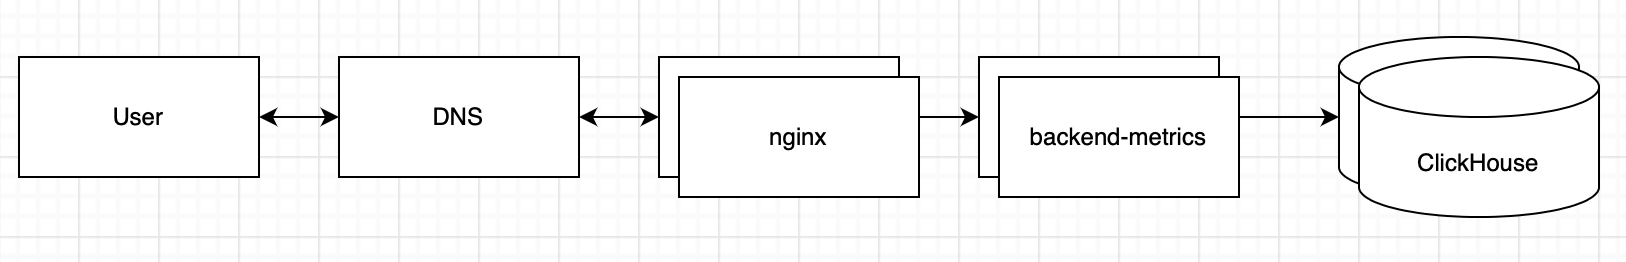
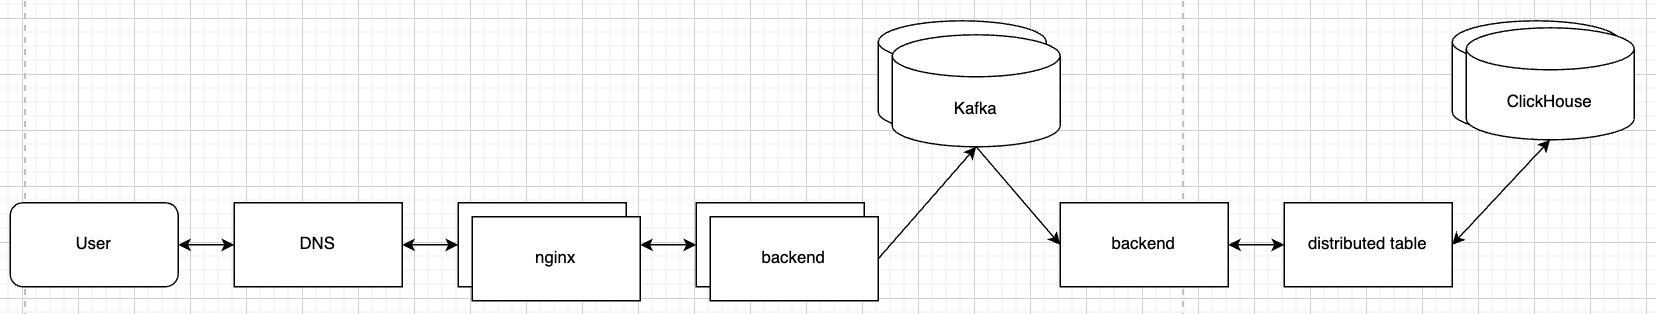
update README

diff --git a/README.md b/README.md
@@ -4,7 +4,11 @@
 
 ### MVP
 
-1. Сбок метрик сайта (сырые метрики без отчетов)
+1. Регистрация администратора
+2. Авторизация администратора
+3. Регистрация сайта
+4. Сбок метрик сайта (сырые метрики без отчетов)
+5. Просмотр метрик сайта
 
 ### Целевая аудитория
 
@@ -17,11 +21,35 @@
 ### Продуктовые метрики
 
 1. **Количество сайтов** - 120 млн
-2. **Средний размер хранилища пользователя** - за пользователя будем считать владельца сайта. Метриками сайта - будем считать информацию о клиентах и их посещений. Для удобства метрики клиента будем считать в хитах.
 
-    * Профиль и информация о сайте имеют очень малый размер, ими можно принебречь.
+2. **Термины**
 
-3. **Средний размер хранилища клиента**
+    * Администратор - владелец сайта
+    * Клиент - пользователь сайта
+    * Метрики - информация о клиентах и их посещениях. Метрики клиента будет считать в хитах
+
+3. **Средний размер хранилища администратора**
+    * Профиль
+
+    | Данные           | Размер |
+    | ---------------- | ------ |
+    | ID               | 5 Б    |
+    | Name             | 5 Б    |
+    | Login            | 5 Б    |
+    | Password         | 5 Б    |
+    | **Общий размер** | 20 Б   |
+
+    * Информация о сайте
+
+    | Данные           | Размер |
+    | ---------------- | ------ |
+    | ID               | 5 Б    |
+    | Name             | 5 Б    |
+    | Domen            | 5 Б    |
+    | CounterNumber    | 5 Б    |
+    | **Общий размер** | 20 Б   |
+
+4. **Средний размер хранилища клиента**
     * Информация о клиенте
 
     | Общие данные               | Размер |
@@ -63,34 +91,50 @@
 
     Это не все метрики, которые приходят. Я выделил основные, болше данных можно посмотреть [тут](https://play.clickhouse.com). В среднем клиент на сайте совершает 1,5 хита в день. Подсчитаем нагрузку сайта за день.
 
-    **Размер метрик за одни день**
+    * Размер метрик за одни день
 
     | Размер хита | Количество пользователей | Количество хитов | Общее хитов | Общий размер |
     | ----------- | ------------------------ | ---------------- | ----------- | ------------ |
     | 200 Б       | 50                       | 1,5              | 75          | 15 КБ        |
 
-4. **Среднее количество действий пользователя**
-    * Информация о действиях пользователя настолько мала, что мы можем ей принебречь (Авторизация, Регистрация, Регистрация сайта, Просмотр метрик).
+5. **Среднее количество действий администратора**
+    * Авторизация - если у сайта тоит кука на 1 день, то среднее количество запросов 1 в день.
+    * Регистрация - администратор регистрируется 1 раз на сайте, поэтому получаем в среднем 0 запросов в день.
+    * Регистрация сайта - администратор регистрирует сайт 1 раз, поэтому получаем в среднем 0 запросов в день.
+    * Просмотр метрик - владельцы маленьких сайтов реже просмотривают метрики, владельцы крупных сайтов постоянно сидят и мониторят ситуацию. Будем считатЬ, что происходит где-то 5 запросов в день (к примеру, запросом будет информация "Тип устройств", "Возвраст"). При просмотре работы Яндекс Метрики средний размер метрики составлял 1 КБ.
 
-5. **Среднее количество действий клиента**
+    | Действие          | Количество |
+    | ----------------- | ---------- |
+    | Авторизация       | 1          |
+    | Регистрация       | 0          |
+    | Регистрация сайта | 0          |
+    | Просмотр метрик   | 5          |
+
+6. **Среднее количество действий клиента**
     * Под действиями клиента понимаем заход на сайт, нажатие на кнопки, переход между страницами и тд. Все это метрики сайта. Для удобства действия клиентов будем считать в хитам не конкретизируя их. В среднем клиент совершает 1,5 хита в день. Cреднее количество клиентов 50, получаем 75 хитов в день.
 
 ### Технические метрики
 
 1. **Размер хранения в разбивке по типам данных**
-    * Информация о клиентах - мы посчитали, что информация о клиенте занимает 50Б. Среднее количество клиентов в день на сайте 200, будем считать что за все время количество уникальных пользователей было в 5 раз больше, тогда нам нужно `120 млн * 1000 * 50Б = 6 ТБ`
-    * Метрики сайта - у нас 120 млн сайтов, Яндекс Метрика существует с 2009 года, то есть 12 лет. Так как раньше сайтов было меньше, то будем считать среднее количество сайтов за 12 лет 30 млн, тогда нам нужно `30 млн * 12 * 365 * 75 * 15 КБ = 150 ПБ`
+    * Профиль - мы посчитали, что профиль занимает 20 Б, у нас 120 млн сайтов, возьмем что у одного сайта в среднем один администратор, получаем `120 млн * 20 Б = 2 ГБ`
+    * Информация о сайте - мы посчитали, что информация о сайте занимает 20 Б, у нас 120 ммлн сайтов, получаем `120 млн * 20 Б = 2 ГБ`
+    * Информация о клиентах - мы посчитали, что информация о клиенте занимает 50Б. Среднее количество клиентов в день на сайте 200, будем считать что за все время количество уникальных пользователей было в 5 раз больше, тогда нам нужно `120 млн * 1000 * 50Б = 6 ТБ`.
+    * Метрики сайта - у нас 120 млн сайтов, Яндекс Метрика существует с 2009 года, то есть 12 лет. Так как раньше сайтов было меньше, то будем считать среднее количество сайтов за 12 лет 30 млн, тогда нам нужно `30 млн * 12 * 365 * 75 * 15 КБ = 150 ПБ`.
 
     В ClickHouse используется сжатие данных для эффективного хранения данных. Для того, чтобы понять какое будет сжатие я загрузил [тестовый набор данных](https://clickhouse.com/docs/ru/getting-started/example-datasets/metrica/) Яндекс метрики размеров 8 ГБ. После загрузки в ClickHouse и оптимизаций таблица весила 520 МБ. Получается размер сжатия примерно 15 раз.
 
     * Сжатая информация о клиентах - `0,4 ТБ`
     * Сжатая метрика сайта - `10 ПБ`
 
-2. RPS и трафик в секунду
+2. **RPS и трафик в секунду**
 
-    | Количество хитов в день | Размер хита | RPS    | Трафик   |
-    | ----------------------- | ----------- | ------ | -------- |
-    | 75                      | 200 Б       | 100000 | 20 МБ/C  |
+    * Хиты - у нас на 1 сайте 75 хитов в день, каждый хит весит 200 Б, получается `RPS = 75 * 120 млн / 24 * 60 * 60 = 100 000 хитов`, `Трафик = RPS * 200 Б / 1024 * 1024 = 20 МБ/C`.
+    * Просмотр метрик - у нас на 1 сайте 5 просмотров в день, каждая метрика весит 1 КБ, получается `RPS = 5 * 120 млн / 24 * 60 * 60 = 7 000`, `Трафик = RPS * 1 КБ / 1024 = 7 МБ/C`.
+
+    | Действие        | Количество | Размер  | RPS     | Трафик  |
+    | --------------- | ---------- | ------- | ------- | ------- |
+    | Хиты            | 75         | 200 Б   | 100 000 | 20 МБ/C |
+    | Просмотр метрик | 5          | 1 КБ    | 7 000   | 7 МБ/C  |
 
 ## 3. Логическая схема
 
@@ -106,41 +150,70 @@
 
 ## 4. Физическая схема
 
-Так как таблицы User, Website, UserWebsite не будут иметь небольшую нагрузку и будут обновляться достаточно редко, то будем их хранить в PostgreSQL.
-
-Таблица Hit, Client будут обновляться достаточно часто и в них будет храниться много данных, для них используем ClickHouse. Для взаимодействия ClickHouse и PostgreSQL будем использовать [внешние словари](https://clickhouse.com/docs/ru/sql-reference/dictionaries/external-dictionaries/external-dicts-dict-sources/#dicts-external_dicts_dict_sources-postgresql)
-
-У нас таблица Hit будет очень большой, поэтому будем ее шардировать между серверами. Плюс ClickHouse в том, что он из коробки позволяет шардировать таблицы и объединять сервера в [кластер](https://clickhouse.com/docs/ru/getting-started/tutorial/#cluster-deployment), и работать с кластером через [distributed table](https://clickhouse.com/docs/ru/engines/table-engines/special/distributed/). Distributed table - это прослойка, которая знает обо всех шардах и репликах и умеет общаяться с ними. Для этого ClickHouse использует решение [ZooKeeper](https://zookeeper.apache.org). Ключом шардирования сделаем домен сайта, чтобы все данные по сайту попытаться хранить в одном месте. Если нам не будет хватать скорости, то мы сможем увеличить количество сервером для distributed table и скорость возрастет. Подробная информация и метрики приведены [тут](https://habr.com/ru/post/509540/). Для обеспечения отказоустойчивости для каждого шарда будет своя реплика. Таким образом мы будем иметь копию данных каждого шарда. Статья про шардирование в [ClickHouse](https://habr.com/ru/company/smi2/blog/317682/).
-
-Разделим нашу логическую схему на следующие базы:
-
 * PostgreSQL
 
 ![PostgreSQL](./assets/postgresql.png)
+
+Так как таблицы User, Website, UserWebsite буду иметь небольшую нагрузку (Регистрация, Регистрация сайта происходят достаточно редко) и будут обновляться достаточно редко, то мы будем их хранить в PostgreSQL. Для обеспечения надежности создадим кластер PostgreSQL с репликами. Для этого будем использовать решение [Patroni](https://habr.com/ru/post/322036/). Этот сервис будет заниматься поддержкой работы кластера PostgreSQL. Для хранения информации о состоянии кластера в Patroni будем использовать ZooKeeper.
+
+* Redis
+
+![Redis](./assets/redis.png)
+
+Нам нужна база данных, где мы будем хранить сессию администратора. Нам нужна In Memory база данных, для того, чтобы быстро получать сессию администратора, для этого будем использовать Redis. Для обеспечения надежности создадим класте Redis с репликами. Для этого будем использовать решение [Redis Cluster](https://habr.com/ru/post/320902/). Он поддерживает аварийное переключение на нового мастера, если сервер с основным мастером выйдет из строя.
 
 * ClickHouse
 
 ![ClickHouse](./assets/clickhouse.png)
 
+Таблица Hit, Client будут обновляться достаточно часто и в них будет храниться много данных, для них используем ClickHouse.
+
+У нас таблица Hit будет очень большой, поэтому будем ее шардировать между серверами. Шардировать будем по UserID, чтобы данные об одном пользователе хранились на одном шарде. Внутри шарда будет партиционировать данные по дате, чтобы свежие данные лежали рядом.
+
+ClickHouse из коробки позволяет шардировать и реплицировать таблицы. В ClickHouse шарды и реплики объединяются в [кластер](https://clickhouse.com/docs/ru/getting-started/tutorial/#cluster-deployment). Для того, чтобы объединить сервера в кластер ClickHouse использует решение [ZooKeeper](https://zookeeper.apache.org). Для надежности будем иметь 1 реплику на каждый шард.
+
+Для удобной работы с кластером будем использовать [distributed table](https://clickhouse.com/docs/ru/engines/table-engines/special/distributed). Distributed table - это прослойка, которая знает обо всех шардах и репликах и умеет общаяться с ними.
+
+Так как таблица Hit очень большая, то работать с таблицей Client через Join или внешние словари не получится, поэтому перед тем как вставить данные в таблицу Hit будем их обогащать данными из таблицы Client. Когда мы будем выполнять запросы за получением метрик, то у больших сайтов может быть очень много данных и запрос будет выполняться медленно, поэтому мы можем использовать механизм кликхаус [семплирование](https://clickhouse.com/docs/ru/sql-reference/statements/select/sample/). Запрос будет выполнен не по всем данным, а по части. Таким образом мы в разы ускорим выполнение запроса.
+
+Если нам не будет хватать скорости получения метрик админом, то мы сможем увеличить количество сервером в кластере и скорость возрастет. Подробная информация и метрики приведены [в этой статье](https://habr.com/ru/post/509540/). Для обеспечения отказоустойчивости для каждого шарда будет своя реплика. Таким образом мы будем иметь копию данных каждого шарда.
+
 ## 5. Технологии
 
-### Frontend
+### Метрика
+
+* Frontend
 
 Как такового фронтенда метрик у нас не будет. Любой сайт, на котором установлены метрики будет нашим фронтендом метрки. Туда просто добавляется наш JS скрипт, который будет собирать данные и отправлять на бекенд.
 
-### Backend
+* Backend
 
-Бекенд митрик должен получать данные и передавать distributed table, который дальше уже будет распределять данные между шардами. Он может выполнять минимальные преобразования по данным.
+Основная задача бекенда метрик - это полученные данные отправить в distributed table, который дальше уже будет распределять данные между шардами. Основным языком будем использовать Golang, так как он поддерживает многопоточность из коробки, является достаточно быстрым.
+
+### Админка
+
+* Frontend
+
+Для написания админки будем использовать HTML + CSS + TS. TypeScript будем использовать потому что он статически типизируемый и обладает дополнительными возможностями по сравнению с JS. Выбор фреймворка зависит от команды разработки и от того, с чем они лучше всего знакомы. Для примера можно взять один из самых популярных фреймворков React. Он поддерживает webpack из коробки и его знает достаточно много программистов.
+
+Для раздачи фронтенда будем использовать CDN, для уменьшения задержки. К примеру можно взять [Cloudflare CDN](https://www.cloudflare.com). В качестве DNS можно выбрать высокодоступный DNS сервис [Amazon Route 53](https://aws.amazon.com/ru/route53).
+
+* Backend
+
+В админке бекенд будет выполнять сразу несколько действий: регистрация, авторизация администратора, регистрация сайта, просмотр метрик. Основным языком так же как и в бекенде метрик будем использовать Golang. Для взаимодействия между микросервисами будем использовать gRPC.
+
+Для того, мониторить информацию о микросервисах и подключать новые в случае отказа основных будем использовать сервис [Consul](https://www.consul.io). В нем будет храниться информация обо всех поднятых микросервисах и бекенды будут ходить туда для получения списка доступных серверов.
 
 ### Трейсинг/Логгинг/Мониторинг
 
 #### Трейсинг
 
-* Для того, чтобы отслеживать где у нас упал запрос при похоже между бекендами будем использовать Jagger.
+* Для того, чтобы отслеживать где у нас упал запрос при походе между бекендами будем использовать Jagger.
 
 #### Логгинг
 
-* Для логгирования бекенда будем использовать Graylog.
+* Для логирования бекенда будем использовать Graylog.
+* Для логирования ошибок фронтенда будем использовать Sentry.
 
 #### Мониторинг
 
@@ -148,24 +221,52 @@
 
 ### Балансировка
 
-* Для балансировки между ДЦ будем использовать Geo-DNS балансировку, которая позволит нам обеспечить наименьшую задержку для пользователя.
+* Для балансировки между ДЦ будем использовать [Amazone Route 53](https://docs.aws.amazon.com/Route53/latest/DeveloperGuide/dns-failover.html), потому что в нем есть функция проверки недоступности, что позволит нам переключить всю нагрузку на другой ДЦ в случае если один выйдет из строя.
 * Для балансировки между бекендами внутри ДЦ будем использовать Nginx L7 балансировку.
 
 ## 6. Схема проекта
 
-![Метрика](./assets/schema_metrics.png)
+![Схема](./assets/schema.png)
 
-Каждый ДЦ будет состоять из Nginx, бекенда, серверов кластера ClickHouse.
+На схеме представлена схема проекта для одного ДЦ.
 
-DNS используя Geo-DNS балансировку сбалансирует нас в ДЦ, внутри него будет осуществляться балансировка Nginx L7 между бекендами.
+Так как самая большая нагрузка пользователей будет находится в центральной части России, то расположим 2 ДЦ в разных зонах доступности. У нас будет между серверами небольшой пинг, но при этом если один выйдет из строя, то второй это задеть не должно.
 
-ClickHouse у нас будет объединен в один кластер для того, чтобы нам не нужно было задумывать о том в какой шард нам нужно идти. Для работы с кластером в каждом ДЦ будет установлен сервер с distributed table, который будет общаться с кластером. Подробнее в разделе про базы данных в разделе "Физическая схема".
+### Схема метрики
 
-В PostgreSQL у нас храниться информация о владельцах сайтов и самих сайтах, поэтому в данном случае рассматривать это не будем. Наш бекенд занимается сбором метрик. Для работы с PostgreSQL должен быть написан отдельный сервис.
+Внутри ДЦ перед Nginx будем использовать балансировку роутингом. Балансировку осуществляем по Ip Hash. Подключим группу Nginx к одному маршрутизатору, если один из серверов отвалится, то он перебалансирует нагрузку внутри группы Nginx.
+
+На Nginx будет осуществлять L7 балансировку между нашими бекендами.
+
+Кафка в системе имеет сразу несколько значений. Во-первых в ней у нас будут накапливаться хиты пользователей, которые мы потом пачкой будем отправлять в кластер ClickHouse. Во-вторый в случае недоступности кластера кликхауса хиты останутся в кафке и мы в следующий раз попытаемся их заново вставить в кликхаус.
+
+Для обеспечения надежности объединим кафку в кластер. Для координации кластера под капотом у кафки используется решение [ZooKeeper](https://zookeeper.apache.org). Это же решение используется ClickHouse для работы своего кластера. ZooKeeper поможет нам настроить несколько реплик кафки и так же распределить их между ДЦ.
+
+Кроны в нашей системе будут переодически ходить в кафку, получать из нее новые хиты пользователей, которые потом будем вставлять пачкой в distributed table.
+
+Distributed table нужна для работы с кластером кликхауса. Эта таблица, которая знает обо всех серверах в кластере и сможет сама разложить данные по шардам.
+
+Distributed table будет работать с кластером кликхаус, подробнее в пункте "Физическая схема"
+
+### Схема админки
+
+Статику JS, CSS, HTML администратор будет получать из CDN (подробнее в пункте "Технологии"
+
+Балансировку между Nginx будем осуществлять с помощью роутинга. Подробнее в пункте "Схема Метрики"
+
+На входе Nginx L7 будет осуществлять балансировку между нашими бекендами.
+
+Core бекенд будет принимать все запросы от Nginx. Так же у нас в системе еще есть 2 сервиса: авторизация и метрика. Для балансировки между ними будем использовать консул. В консуле у нас будет храниться информация обо всех поднятых инстансах бекенда. Core бекенд будет переодически подтягивать информацию о доступных сервисах и балансировать запросы между ними. Если как-то сервис упадет, то в консул придет об этом информация и core перестанет в него балансировать запросы.
+
+Redis используется для хранения сессий пользователя. Для обеспечения отказоустойчивости будем использовать решение [Redis Cluster](https://habr.com/ru/post/320902/), подробнее в пункте "Физическая схема"
+
+В PostgreSQL у нас будут хранить данные пользователей и информация о сайтах. Для обеспечения отказоустойчивости будем использовать [Patroni](https://habr.com/ru/post/322036/), подробнее в пункте "Физическая схема"
+
+Для работы с кластером кликхауса будем иметь свой инстанс distributed table, чтобы разграничить нагрузку. Про настройку кластера кликхауса подробнее в пункте "Физическая схема"
 
 ## 7. Список серверов
 
-Найти точного географического распределения Яндекс Метрики не удалось, поэтому будем предполагать, что она очень популярна в России и странах СНГ, чуть менее популярна в Европе и США. Поэтому расположим три ДЦ в России, один в Европе и один в США.
+* ClickHouse
 
 Для работы ClickHouse нам нужно очень много постоянной памяти, чтобы хранить все хиты. Возьмем диски объемом 8 ТБ. На сервере будем иметь 8 таких дисков. Рассчитаем количество сереров `10 ПБ / 8 дисков * 8 ТБ = 160 серверов`. Как мы уже раньше сказали для надежной работы будет иметь 1 реплику под каждый шард. Для обработки большого количества запросов нам нужно много CPU и RAM.
 
@@ -173,23 +274,110 @@ ClickHouse у нас будет объединен в один кластер д
 | ---------- | -------- | -------- | ---------------- |
 | 32         | 64       | 4 х 8    | 160 + 160 реплик |
 
-Для работы с кластером ClickHouse в каждом ДЦ установим сервер с distributed table. Он будет принимать запросы от бека и асинхронно передавать на кластера ClickHouse. Сервер не будет хранить данные, а будет передавать на кластера, поэтому диска ему много не нужно, но нужна оператива, чтобы эти данные хранить и потом передавать на кластера.
+* Distributed Table
+
+Для записи в кластер ClickHouse установим сервер с distributed table. Он будет принимать запросы от бека передавать на кластера ClickHouse. Сервер не будет хранить данные, а будет передавать на кластера, поэтому диска ему много не нужно, но нужна оператива, чтобы эти данные хранить и потом передавать на кластера.
 
 | CPU (ядер) | RAM (ГБ) | SSD (ГБ) | Количество  |
 | ---------- | -------- | -------- | ----------- |
-| 32         | 256      | 256      | В каждом ДЦ |
+| 32         | 256      | 256      | 2           |
 
-Nginx будет иметь огромную нагрузку из-за большого количества запросов. В среднем Nginx выдает 300 RPS на 1 ядро для HTTPS. Возьмем 16 ядерный процессор. В нашем случае нам нужно `100 000 RPS / 16 ядер * 300 RPS = 22` сервера nginx + возьмем 22 резервных. Для обработки большого количества соединений нам нужно много RAM, а вот размер диска нам не очень важен.
+* Kafka
 
-| CPU (ядер) | RAM (ГБ) | SSD (ГБ) | Количество     |
-| ---------- | -------- | -------- | -------------- |
-| 16         | 32       | 64       | 22 + 22 резерв |
+В кафке у нас будет храниться хиты до того, как попадут в кликхаус, для обеспечения надежности и большой пропускной способности сделаем 6 серверов кафки в кластере.
+
+| CPU (ядер) | RAM (ГБ) | SSD (ГБ) | Количество  |
+| ---------- | -------- | -------- | ----------- |
+| 64         | 128      | 512      | 6           |
+
+* PostgreSQL
+
+Информация о сайтах и профиль по нашим расчетам занимает 4 ГБ, поэтому нам большой диск не нужен. Для надежности берем 1 реплику.
+
+| CPU (ядер) | RAM (ГБ) | HDD (ГБ) | Количество    |
+| ---------- | -------- | -------- | ------------- |
+| 32         | 64       | 128      | 1 + 1 реплика |
+
+* Redis
+
+В Redis у нас будет храниться сессия пользователя, Redis хранит все в оперативной памятия, поэтому нам нужно очень много оперативы и процессора для обработки. Для надежности берем 1 реплику.
+
+| CPU (ядер) | RAM (ГБ) | SSD (ГБ) | Количество   |
+| ---------- | -------- | -------- | ------------ |
+| 64         | 128      | 64       | 1 + 1 релика |
+
+* Nginx L7 (метрика)
+
+Nginx будет иметь огромную нагрузку из-за большого количества запросов. В среднем Nginx выдает 300 RPS на 1 ядро для HTTPS. Возьмем 64 ядерный процессор. В нашем случае нам нужно `100 000 RPS / 64 ядера * 300 RPS = 5` серверов nginx + возьмем 5 резервных. Для обработки большого количества соединений нам нужно много RAM, а вот размер диска нам не очень важен.
+
+| CPU (ядер) | RAM (ГБ) | SSD (ГБ) | Количество   |
+| ---------- | -------- | -------- | ------------ |
+| 64         | 128      | 64       | 5 + 5 резерв |
+
+* Nginx L7 (админка)
+
+Nginx в админке будет иметь нагрузку намного меньше. В нашей случае нам нужно `7 000 RPS / 32 ядра * 300 RPS = 1` сервер nginx + возьмем 1 резервный.
+
+| CPU (ядер) | RAM (ГБ) | SSD (ГБ) | Количество   |
+| ---------- | -------- | -------- | ------------ |
+| 32         | 64       | 64       | 1 + 1 резерв |
+
+* Backend
 
 Если посмотреть примеры [тестов go](https://habr.com/ru/post/324818/), то можно увидеть, что он выдает достаточно много RPS. Учитывая большие нагрузки, то будем считать что у нас будет 5 000 RPS. Тогда нам нужно `100 000 RPS / 5 000 RPS = 20`. Нам нужно достаточно много CPU и памяти для обработки такого количества запросов, а вот диска нам много не надо.
 
 | CPU (ядер) | RAM (ГБ) | SSD (ТБ) | Количество     |
 | ---------- | -------- | -------- | -------------- |
-| 24         | 64       | 64       | 20 + 20 резерв |
+| 32         | 64       | 64       | 20 + 20 резерв |
+
+* Cron
+
+Кронов нам нужно меньше чем бекендов, потому что они будут пачками отправлять данные в кластер кликхаус. Поэтому возьмем их в 4 раза меньше чем бекендов.
+
+| CPU (ядер) | RAM (ГБ) | SSD (ТБ) | Количество   |
+| ---------- | -------- | -------- | ------------ |
+| 32         | 64       | 64       | 5 + 5 резерв |
+
+* Core
+
+Core бекенд будет обрабатывать все приходящие на него запросы, расчитаем сколько нам нужно `7 000 RPS / 5 000 RPS = 2`.
+
+| CPU (ядер) | RAM (ГБ) | SSD (ТБ) | Количество     |
+| ---------- | -------- | -------- | -------------- |
+| 32         | 64       | 64       | 2 + 2 резерв   |
+
+* Auth
+
+На каждый запрос нам нужно будет проверить сессию пользователя, поэтому нагрузки будут такие же.
+
+| CPU (ядер) | RAM (ГБ) | SSD (ТБ) | Количество     |
+| ---------- | -------- | -------- | -------------- |
+| 32         | 64       | 64       | 2 + 2 резерв   |
+
+* Metrics
+
+В нам системе мы рассматривали только запросы за получением метрик, поэтому каждый запрос пользователя будет проходить через сервис метрик и у него будут такие же нагрузку как у Core и Auth.
+
+| CPU (ядер) | RAM (ГБ) | SSD (ТБ) | Количество     |
+| ---------- | -------- | -------- | -------------- |
+| 32         | 64       | 64       | 2 + 2 резерв   |
+
+### Итоги серверов
+
+| Сервис             | CPU (ядер) | RAM (ГБ) | Диск      | Количество       |
+| ------------------ | ---------- | -------- | --------- | ---------------- |
+| ClickHouse         | 32         | 64       | HDD 4 х 8 | 160 + 160 реплик |
+| Distributed Table  | 32         | 256      | SSD  256  | 2                |
+| Kafka              | 64         | 128      | SSD 512   | 6                |
+| PostgreSQL         | 32         | 64       | HDD 128   | 1 + 1 реплика    |
+| Redis              | 64         | 128      | SSD 64    | 1 + 1 резерв     |
+| Nginx L7 (метрика) | 64         | 128      | SSD 64    | 5 + 5 резерв     |
+| Nginx L7 (админка) | 32         | 64       | SSD 64    | 1 + 1 резерв     |
+| Backend            | 32         | 64       | SSD 64    | 20 + 20 резерв   |
+| Cron               | 32         | 64       | SSD 64    | 5 + 5 резерв     |
+| Core               | 32         | 64       | SSD 64    | 2 + 2 резерв     |
+| Auth               | 32         | 64       | SSD 64    | 2 + 2 резерв     |
+| Metrics            | 32         | 64       | SSD 64    | 2 + 2 резерв     |
 
 ## 8. Литература
 
@@ -205,4 +393,5 @@ Nginx будет иметь огромную нагрузку из-за боль
 10. <https://habr.com/ru/post/509540/>
 11. <https://habr.com/ru/company/smi2/blog/317682/>
 12. <https://habr.com/ru/post/324818/>
-13. <https://zookeeper.apache.org>
+13. <https://habr.com/ru/company/southbridge/blog/550934/>
+14. <https://habr.com/ru/company/piter/blog/352978/>
